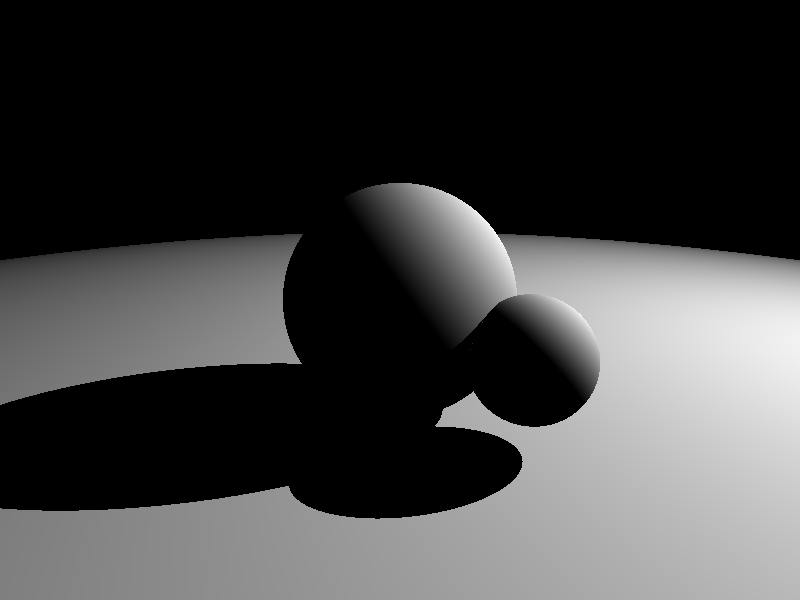
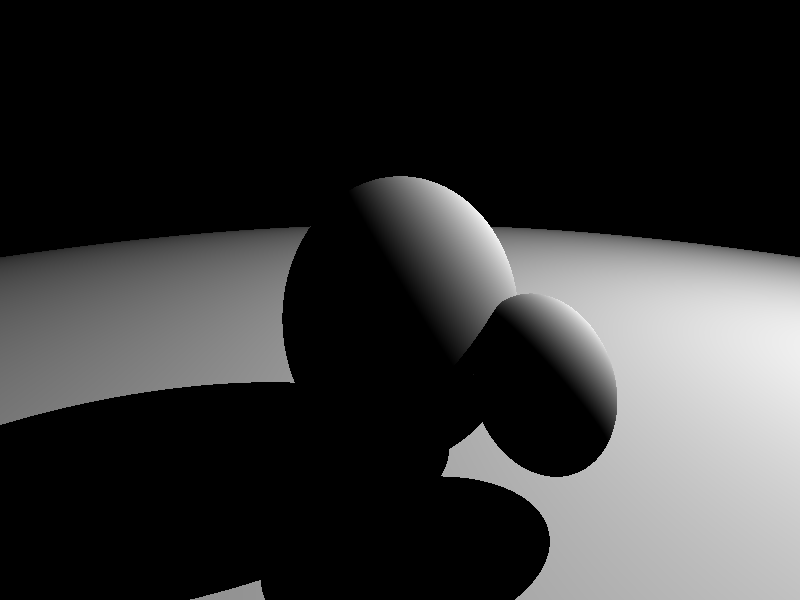
Add: Camera, Fix: Normalize and cross product

diff --git a/src/main.rs b/src/main.rs
@@ -1,21 +1,29 @@
 extern crate image;
 
-use rust_tracer::vector::Vec3;
-use rust_tracer::ray::Ray;
-use rust_tracer::light::Light;
-use rust_tracer::sphere::Sphere;
-use std::f32;
 use image::png::PNGEncoder;
-use std::fs::File;
 use image::ColorType;
+use rust_tracer::camera::Camera;
+use rust_tracer::light::Light;
+use rust_tracer::ray::Ray;
+use rust_tracer::sphere::Sphere;
+use rust_tracer::vector::Vec3;
+use std::f32;
+use std::fs::File;
 
-fn write_image(filename: &str, pixels: &[u8], bounds: (usize, usize)) -> Result<(), std::io::Error>
-{
+fn write_image(
+    filename: &str,
+    pixels: &[u8],
+    bounds: (usize, usize),
+) -> Result<(), std::io::Error> {
     let output = File::create(filename)?;
 
     let encoder = PNGEncoder::new(output);
-    encoder.encode(&pixels, bounds.0 as u32, bounds.1 as u32,
-                   ColorType::Gray(8))?;
+    encoder.encode(
+        &pixels,
+        bounds.0 as u32,
+        bounds.1 as u32,
+        ColorType::Gray(8),
+    )?;
 
     Ok(())
 }
@@ -37,14 +45,17 @@ fn any_sphere_before_light(spheres: &Vec<Sphere>, ray: &Ray, ray_magnitude: f32)
         match sp.intersects(ray) {
             f if !f.is_sign_negative() && f < ray_magnitude => return true,
             _ => continue,
-
         }
-
     }
     false
 }
 
-fn get_color_at(spheres: &Vec<Sphere>, intersection_sphere: &Sphere, intersection_pos: &Vec3, light: &Light) -> u8 {
+fn get_color_at(
+    spheres: &Vec<Sphere>,
+    intersection_sphere: &Sphere,
+    intersection_pos: &Vec3,
+    light: &Light,
+) -> u8 {
     let normal = intersection_sphere.normal_at(intersection_pos);
     let ray_origin = intersection_pos + &normal.scalar_div(1000.0);
     let ray_direction = &light.pos - &ray_origin;
@@ -57,17 +68,16 @@ fn get_color_at(spheres: &Vec<Sphere>, intersection_sphere: &Sphere, intersectio
 
     match ray.direction.dot(&normal) {
         f if f.is_sign_positive() => (f * 255.0) as u8,
-        _ => 0
+        _ => 0,
     }
 }
 
 fn main() {
-    let cam_pos = Vec3::from(3.0, 1.5, -4.0);
-    let look_at = Vec3::new();
-
-    let cam_dir = (&look_at - &cam_pos).normalized();
-    let cam_right = Vec3::from(0.0, 1.0, 0.0).cross(&cam_dir).normalized();
-    let cam_up = cam_right.negative().cross(&cam_dir);
+    let camera = Camera::new(
+        Vec3::from(3.0, 1.5, -4.0),
+        Vec3::from(0.0, 1.0, 0.0),
+        Vec3::new(),
+    );
 
     let width = 800;
     let height = 600;
@@ -81,27 +91,24 @@ fn main() {
     let mut x_offset: f32;
     let mut y_offset: f32;
     let mut colors: Vec<u8> = Vec::new();
-    colors.resize(800 * 900, 0);
+    colors.resize(width * height, 0);
     let light = Light::from(Vec3::from(5.0, 5.0, 5.0));
 
-    for x in 0..width {
-        for y in 0..height {
+    for x in 0..width as i32 {
+        for y in 0..height as i32 {
             let width = width as f32;
             let height = height as f32;
             if width > height {
-                x_offset = (x as f32 + 0.5) / height - (width - height) / (height * 2.0);
-                y_offset = (y as f32 + 0.5) / height;
+                x_offset = ((x as f32) - width / 2.0) / height + 0.5;
+                y_offset = (y as f32) / height;
             } else if height > width {
-                x_offset = (x as f32 + 0.5) / width;
-                y_offset = (y as f32 + 0.5) / width - (height - width) / (width * 2.0);
+                x_offset = (x as f32) / width;
+                y_offset = ((y as f32) - width / 2.0) / width + 0.5;
             } else {
-                x_offset = (x as f32 + 0.5) / width;
-                y_offset = (y as f32 + 0.5) / height;
+                x_offset = (x as f32) / width;
+                y_offset = (y as f32) / height;
             }
-
-            let cam_ray = Ray::from(
-                cam_pos.clone(),
-                &cam_dir + &(&cam_right.scalar_mul(x_offset - 0.5) + &cam_up.scalar_mul(y_offset - 0.5)));
+            let cam_ray = camera.ray_with_offset(x_offset, y_offset);
 
             let mut intersections: Vec<f32> = Vec::new();
             for sp in &spheres {
@@ -111,9 +118,10 @@ fn main() {
             let color: u8 = match nearest_intersection_index(&intersections) {
                 None => 0,
                 Some(index) => {
-                    let intersection_pos = &cam_ray.origin + &cam_ray.direction.scalar_mul(intersections[index]);
+                    let intersection_pos =
+                        &cam_ray.origin + &cam_ray.direction.scalar_mul(intersections[index]);
                     get_color_at(&spheres, &spheres[index], &intersection_pos, &light)
-                },
+                }
             };
 
             colors[(y * width as i32 + x) as usize] = color;
@@ -122,5 +130,4 @@ fn main() {
 
     write_image("out.png", &colors, (width as usize, height as usize))
         .expect("Write to file error.");
-
 }

diff --git a/src/vector.rs b/src/vector.rs
@@ -1,5 +1,3 @@
-
-
 use std::ops;
 
 #[derive(Debug, Clone)]
@@ -10,79 +8,79 @@ pub struct Vec3 {
 }
 
 impl Vec3 {
+    #[inline]
     pub fn new() -> Self {
         Vec3 {
             x: 0.0,
             y: 0.0,
-            z: 0.0
+            z: 0.0,
         }
     }
 
+    #[inline]
     pub fn from(x: f32, y: f32, z: f32) -> Self {
-        Vec3 {
-            x, y, z
-        }
+        Vec3 { x, y, z }
     }
 
+    #[inline]
     pub fn negative(&self) -> Self {
         Vec3 {
-            x: self.x,
-            y: self.y,
-            z: self.z
+            x: -self.x,
+            y: -self.y,
+            z: -self.z,
         }
     }
 
+    #[inline]
     pub fn magnitude(&self) -> f32 {
-        f32::sqrt(
-            self.x * self.x + self.y * self.y + self.z * self.z
-        )
+        f32::sqrt(self.x * self.x + self.y * self.y + self.z * self.z)
     }
 
+    #[inline]
     pub fn dot(&self, rhs: &Vec3) -> f32 {
         self.x * rhs.x + self.y * rhs.y + self.z * rhs.z
     }
 
+    #[inline]
     pub fn cross(&self, rhs: &Vec3) -> Self {
         Vec3 {
             x: self.y * rhs.z - self.z * rhs.y,
-            y: self.z * rhs.x - self.x * rhs.z,
-            z: self.x * rhs.y - self.y * rhs.x
+            y: self.x * rhs.z - self.z * rhs.x,
+            z: self.x * rhs.y - self.y * rhs.x,
         }
     }
 
     pub fn normalized(&self) -> Self {
-        let m = f32::sqrt(
-            self.x * self.x + self.y * self.y + self.z * self.z
-        );
+        let m = f32::sqrt(self.x * self.x + self.y * self.y + self.z * self.z);
         Vec3 {
             x: self.x / m,
             y: self.y / m,
-            z: self.z / m
+            z: self.z / m,
         }
     }
 
     pub fn normalize(&mut self) {
-        let m = f32::sqrt(
-            self.x * self.x + self.y * self.y + self.z * self.z
-        );
+        let m = f32::sqrt(self.x * self.x + self.y * self.y + self.z * self.z);
         self.x /= m;
         self.y /= m;
         self.z /= m;
     }
 
+    #[inline]
     pub fn scalar_mul(&self, s: f32) -> Self {
         Vec3 {
             x: self.x * s,
             y: self.y * s,
-            z: self.z * s
+            z: self.z * s,
         }
     }
 
+    #[inline]
     pub fn scalar_div(&self, s: f32) -> Self {
         Vec3 {
             x: self.x / s,
             y: self.y / s,
-            z: self.z / s
+            z: self.z / s,
         }
     }
 }
@@ -93,7 +91,7 @@ impl ops::Add for &Vec3 {
         Vec3 {
             x: self.x + rhs.x,
             y: self.y + rhs.y,
-            z: self.z + rhs.z
+            z: self.z + rhs.z,
         }
     }
 }
@@ -104,7 +102,7 @@ impl ops::Mul for &Vec3 {
         Vec3 {
             x: self.x * rhs.x,
             y: self.y * rhs.y,
-            z: self.z * rhs.z
+            z: self.z * rhs.z,
         }
     }
 }
@@ -115,7 +113,7 @@ impl ops::Sub for &Vec3 {
         Vec3 {
             x: self.x - rhs.x,
             y: self.y - rhs.y,
-            z: self.z - rhs.z
+            z: self.z - rhs.z,
         }
     }
 }

diff --git a/src/camera.rs b/src/camera.rs
@@ -1,0 +1,26 @@
+use crate::ray::Ray;
+use crate::vector::Vec3;
+
+pub struct Camera {
+    pub pos: Vec3,
+    pub up: Vec3,
+    pub right: Vec3,
+}
+
+impl Camera {
+    pub fn new(pos: Vec3, mut up: Vec3, look_at: Vec3) -> Self {
+        let direction = (&look_at - &pos).normalized();
+        up.normalize();
+        let right = up.cross(&direction).normalized();
+        up = right.cross(&direction);
+        Camera { pos, up, right }
+    }
+
+    pub fn ray_with_offset(&self, x: f32, y: f32) -> Ray {
+        let direction = self.up.cross(&self.right).negative();
+        Ray::from(
+            self.pos.clone(),
+            &direction + &(&self.up.scalar_mul(1.0 - y - 0.5) + &self.right.scalar_mul(x - 0.5)),
+        )
+    }
+}

diff --git a/src/lib.rs b/src/lib.rs
@@ -1,4 +1,5 @@
-pub mod vector;
-pub mod sphere;
-pub mod ray;
+pub mod camera;
 pub mod light;
+pub mod ray;
+pub mod sphere;
+pub mod vector;
